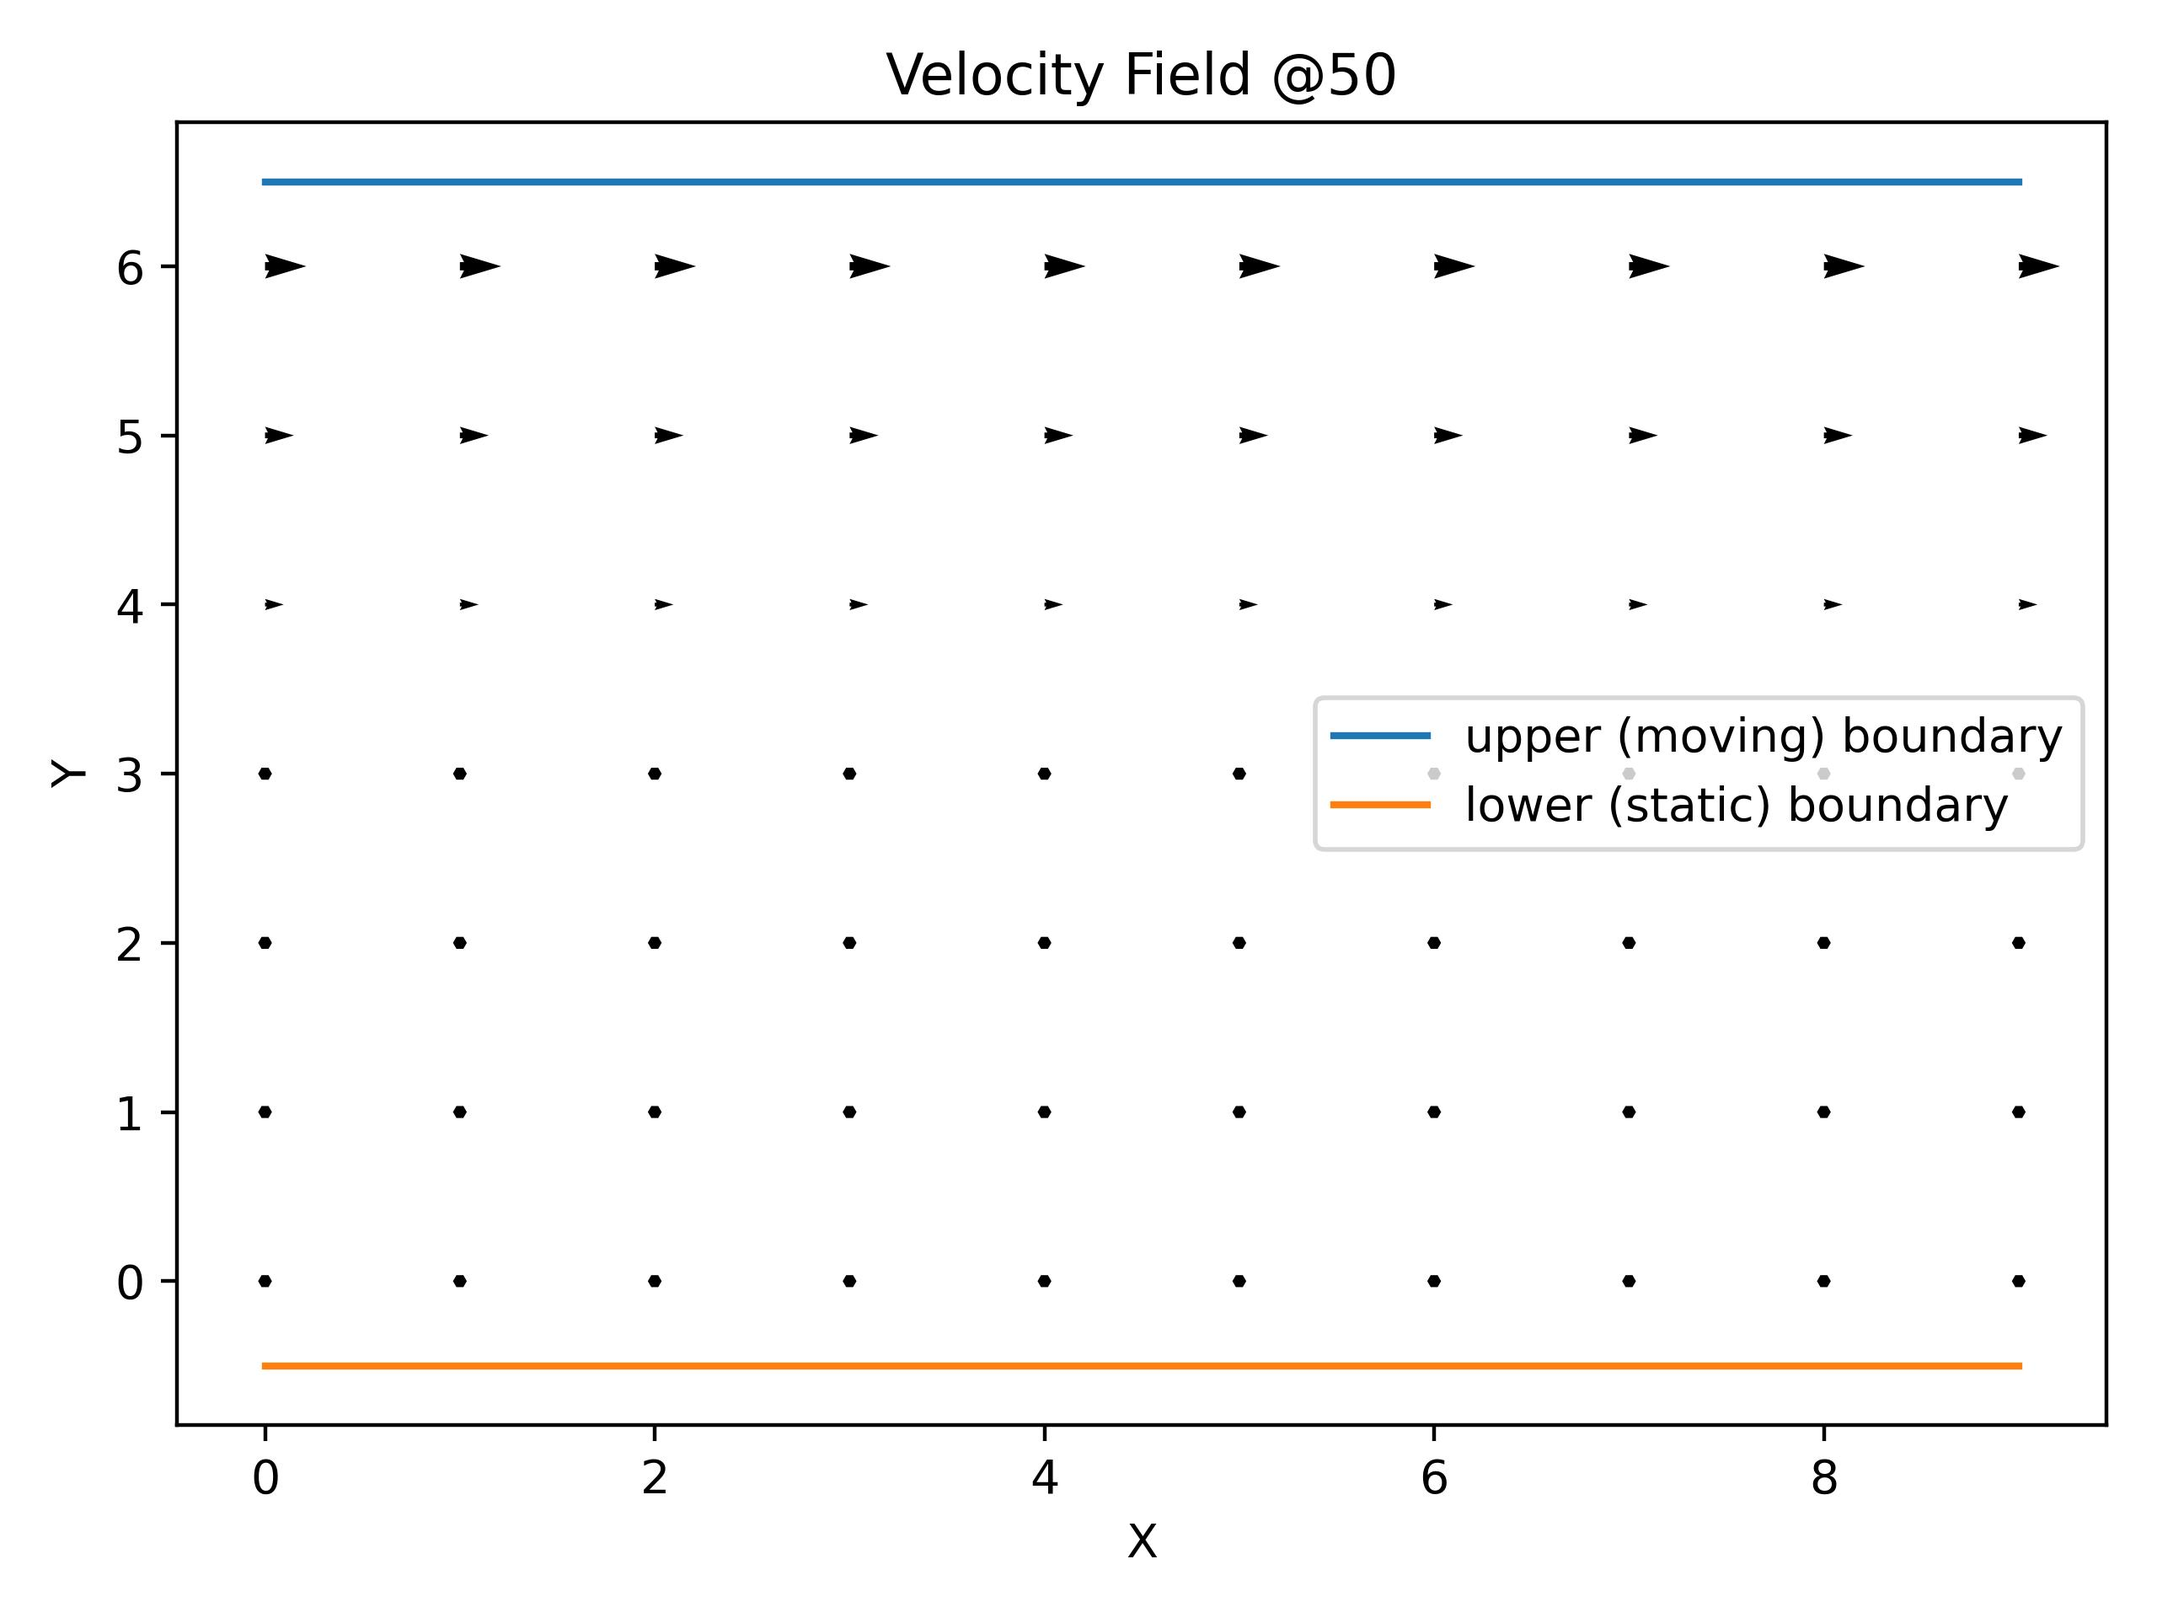
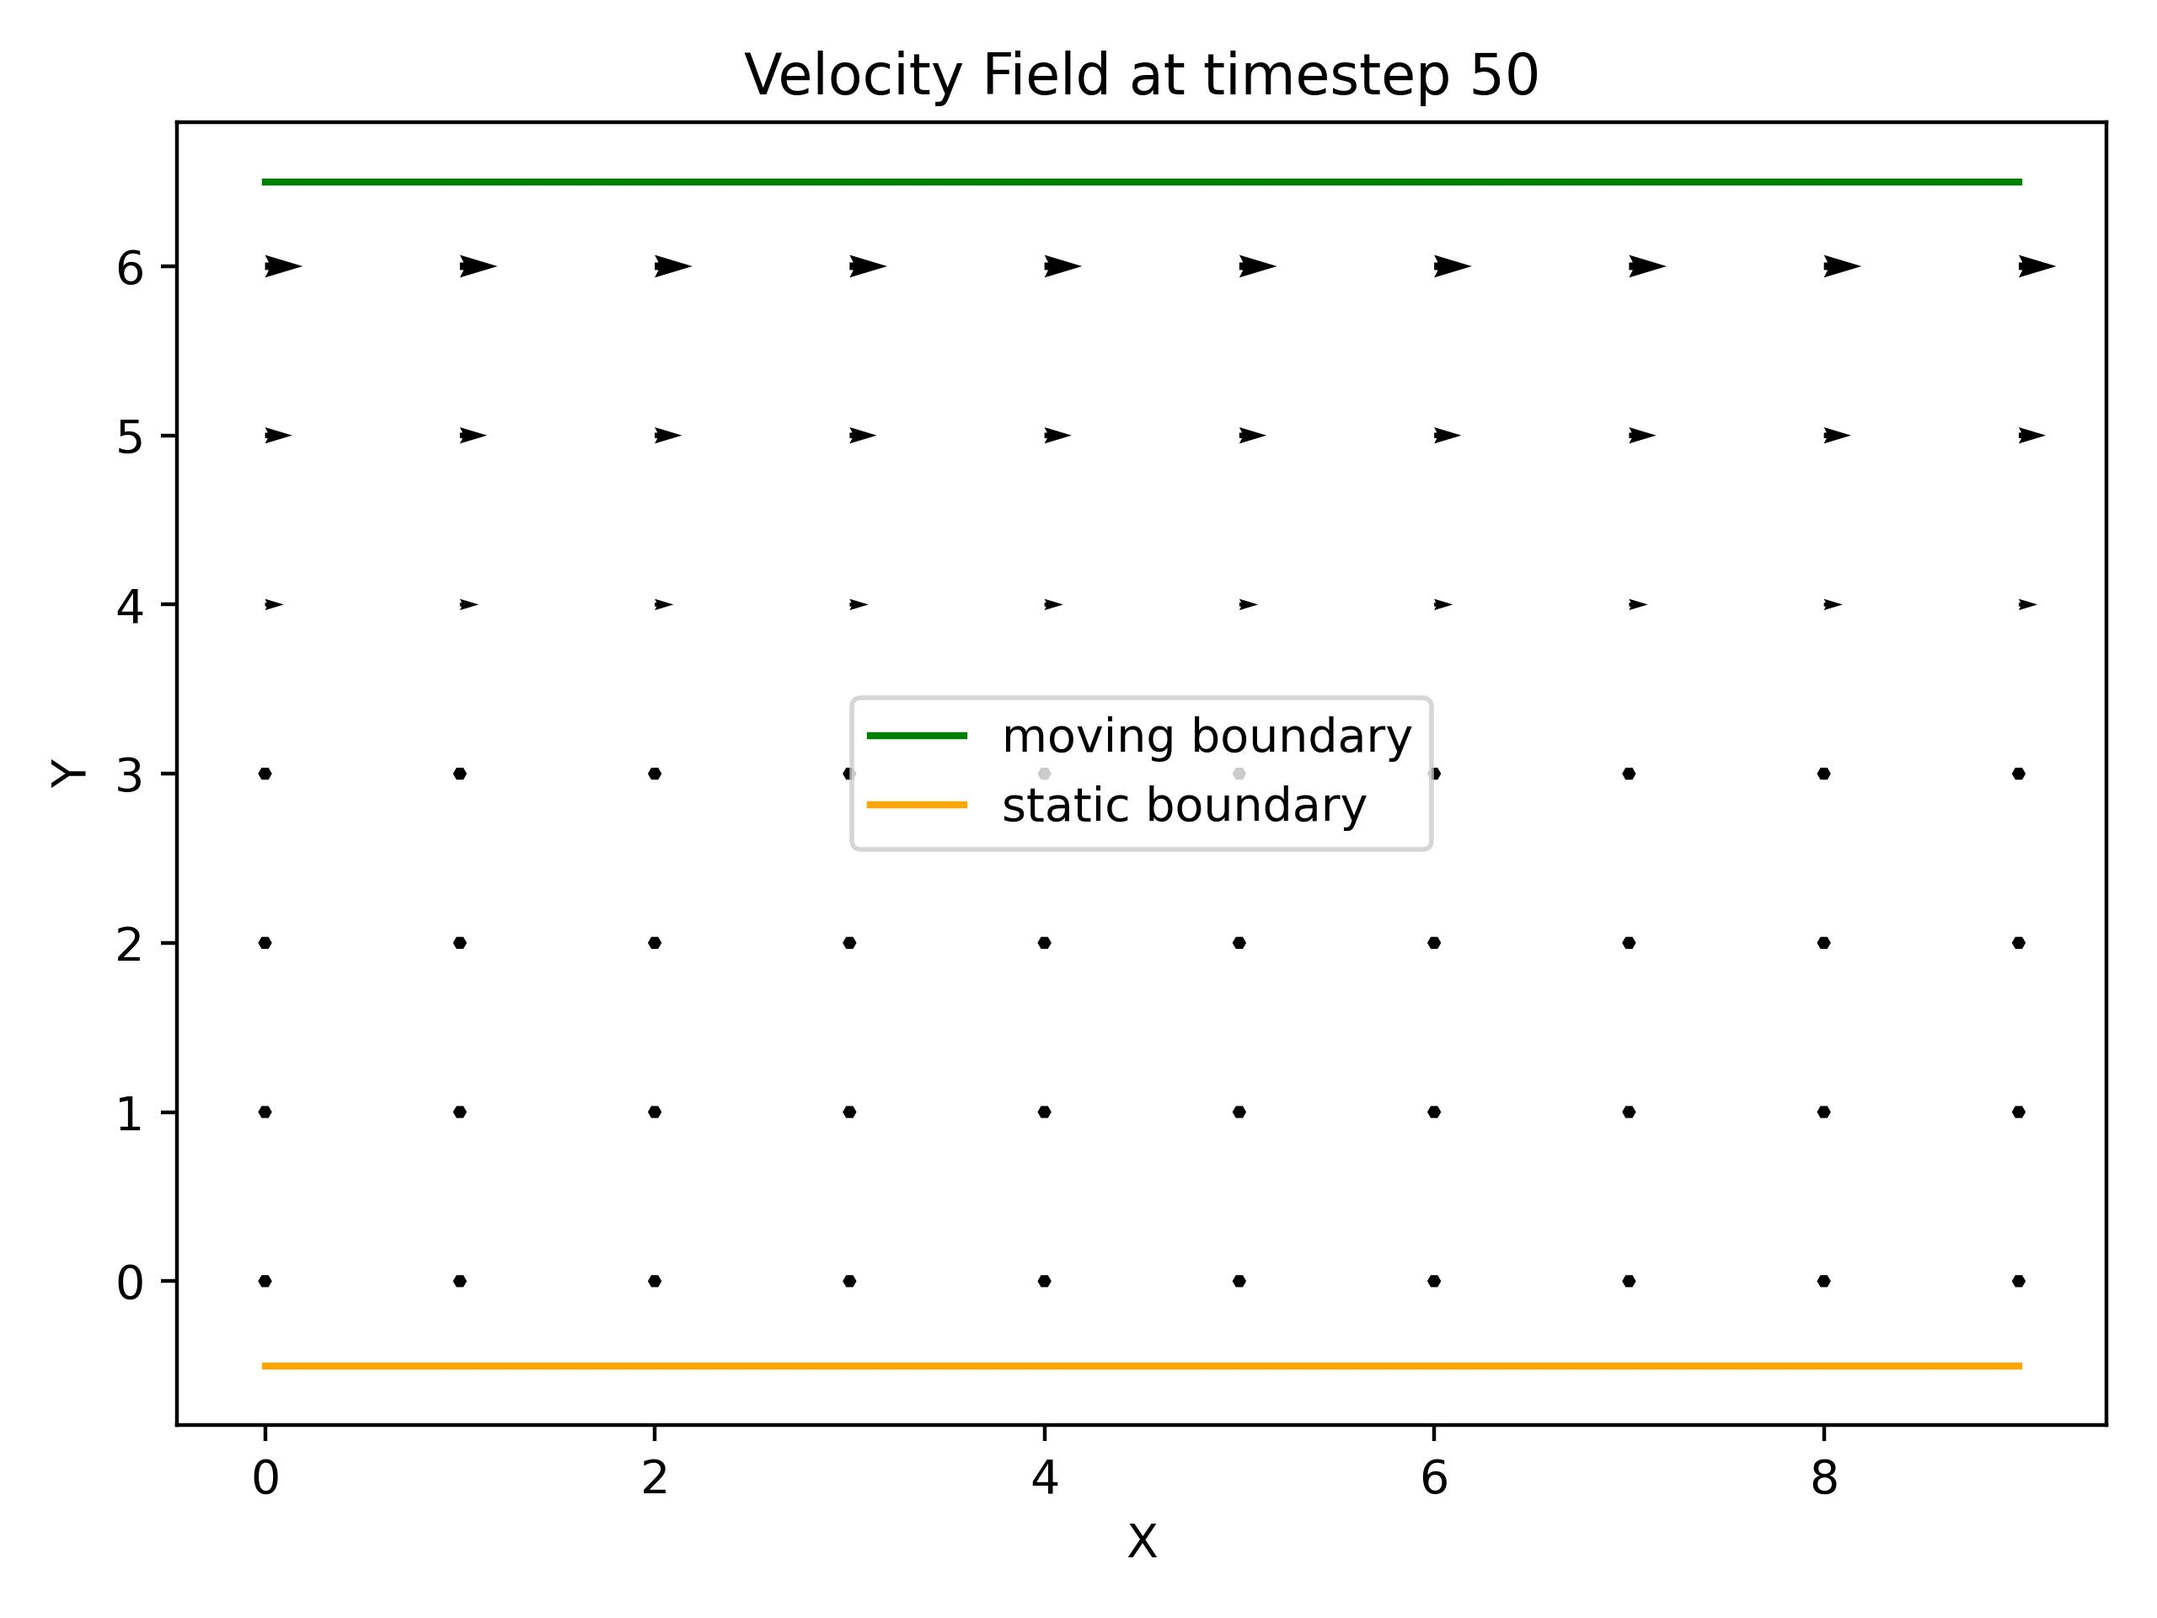
change graphs

Changed region(s): [[0.375, 0.4375, 0.9688, 0.5312], [0.125, 0.0938, 0.9375, 0.125], [0.3438, 0.0312, 0.7188, 0.0625]]

diff --git a/report/chapters/results.tex b/report/chapters/results.tex
@@ -5,9 +5,9 @@
 The Shear Wave Decay is a common concept in computational physics to measure the kinematic viscosity of a fluid.
 It is set up by creating an initial sinusoidal velocity profile and measuring the decay rate.
 The field is set up with a periodic boundary condition on each side, which results in e.g.\ particles moving out of the right to appear back on the left side.
-The default parameters for the Shear Wave Decay experiments are shown in \cref{tab:swd-parameters} and used if not stated otherwise.
+The default parameters of the Shear Wave Decay experiments are shown in \cref{tab:swd-parameters} and used if not stated otherwise.
 
-\begin{table}[ht]
+\begin{table}[H]
     \centering % used for centering table
     \begin{tabular}{c c}
 % centered columns (4 columns)
@@ -21,7 +21,7 @@ The default parameters for the Shear Wave Decay experiments are shown in \cref{t
         $t_{\max}$ & 1000  \\ [1ex] % [1ex] adds vertical space
         \hline %inserts single line
     \end{tabular}
-    \caption{Parameters for the Shear Wave Decay} % title of Table
+    \caption{Parameters of the Shear Wave Decay} % title of Table
     \label{tab:swd-parameters}
 \end{table}
 
@@ -41,7 +41,7 @@ This is due to the fact that the system tries to reach a state of equilibrium wh
 Therefore, a flow is created from the higher density area to the lower density area.
 This flow continues until the mass at the previous lower density area is so dense, that no further flow is created. %TODO better explaining why it overflows!
 It now reached a state similar to the beginning however the dense and low-dense areas swapped which is why the flow will have opposite directions in the next iteration.
-This process can be seen in \cref{fig:swd-stream-velocity}. % TODO fix formatting (text-image-text-image)
+This process can be seen in \cref{fig:swd-stream-velocity}.
 
 \begin{figure}[H]
     \begin{minipage}{0.33\textwidth}
@@ -157,23 +157,15 @@ In theory, this may even have an impact on the experiments, but omega was set to
 
 \section{Couette Flow}\label{sec:couette-flow}
 The \textit{Couette Flow} arises in a bounded field with two distinct boundaries located at the top and bottom.
-Notably, the lower boundary remains stationary, while the upper boundary is sliding in x-direction, as visualized in \cref{fig:cf-initial-condition}.
+Notably, the lower boundary remains stationary, while the upper boundary is sliding in x-direction.
 Periodic boundary conditions are enforced along the right and left sides.
-The initial condition, depicted in \cref{fig:cf-initial-condition} and can be mathematically expressed as follows:
+The initial condition can be mathematically expressed as follows:
 \begin{equation*}
     \begin{aligned}
         \rho(0) = 0 \\
         \mathbf{u}(0) = 0 \cdot
     \end{aligned}
 \end{equation*}
-
-\begin{figure}[H]
-    \begin{center}
-        \includegraphics[width=0.5\linewidth]{graphs/CouetteFlow/velocity_field_couette_flow_0}
-        \caption{Initial condition with a sliding boundary at the top, periodic boundary conditions to the side and a hard wall to the bottom.}
-        \label{fig:cf-initial-condition}
-    \end{center}
-\end{figure}
 
 Because of the friction of the boundaries, the fluid starts flow.
 More specifically, the fluid in the top starts to get momentum, because it is close to the upper boundary which is moving.
@@ -213,14 +205,14 @@ To reproduce this experiment, please use the parameters from \cref{tab:cf-parame
         $t_{\max}$  & 1000  \\ [1ex] % [1ex] adds vertical space
         \hline %inserts single line
     \end{tabular}
-    \caption{Parameters for the Couette Flow} % title of Table
+    \caption{Parameters of the Couette Flow} % title of Table
     \label{tab:cf-parameters}
 \end{table}
 
 
 \section{Poiseuille Flow}
 The \textit{Poiseuille Flow} can be described as a pressure pipe.
-There are stationary boundaries at the top and bottom and a periodic boundary condition to the sides, as shown in %TODO .
+There are stationary boundaries at the top and bottom and a periodic boundary condition to the sides, as seen in \cref{fig:pf-velocity-field}.
 In the beginning all velocity is set to 0 as defined by the initial condition
 \begin{equation*}
     \begin{aligned}
@@ -234,17 +226,20 @@ The resulting velocity field is shown in \cref{fig:pf-velocity-field}.
 \begin{figure}[H]
     \begin{center}
         \includegraphics[width=0.5\linewidth]{graphs/PoiseuilleFlow/velocity_field_999}
-        \caption{The steady state of the Poiseuille Flow.}
+        \caption{The steady state of the Poiseuille Flow. This graph shows an 8x8 field to increase readability.}
         \label{fig:pf-velocity-field}
     \end{center}
 \end{figure}
 
 \begin{figure}[H]
-    \begin{minipage}{0.5\textwidth}
+    \begin{minipage}{0.33\textwidth}
         \includegraphics[width=\linewidth]{graphs/PoiseuilleFlow/velocity_at_columns_for_step_10}
     \end{minipage}% don't remove this comment - uncomments a new line
-    \begin{minipage}{0.5\textwidth}
+    \begin{minipage}{0.33\textwidth}
         \includegraphics[width=\linewidth]{graphs/PoiseuilleFlow/velocity_at_columns_for_step_999}
+    \end{minipage}% don't remove this comment - uncomments a new line
+    \begin{minipage}{0.33\textwidth}
+        \includegraphics[width=\linewidth]{graphs/PoiseuilleFlow/velocity_for_step_at_columns_analytical}
     \end{minipage}
     \caption{
         The velocity at different cross-sections of the pipe through the simulation.
@@ -255,8 +250,11 @@ The resulting velocity field is shown in \cref{fig:pf-velocity-field}.
 The velocity field inside the pipe changes as shown in \cref{fig:pf-velocity-areas}.
 It can be clearly seen, that a \textit{wave} of pressure flows through the pipe.
 While in the beginning this leads to very different velocities in the pipe, this difference gets smaller over time.
-After 1000 timesteps, the equilibrium state is almost reached, but the final state is already clear.
-The lines to the right would completely overlap and show no difference anymore, which means, that the velocity is the same in the whole pipe.
+After 1000 timesteps, the equilibrium state is almost reached in the beginning of the pipe.
+The lines to the right would completely overlap and show no difference anymore, which means, that the velocity and will not change any further.
+
+Throughout the pipe however, the equilibrium state is not yet reached and will need further time as shown in the right graph.
+It shows that the velocity in the middle of the pipe will still increase after 2000 steps before reaching its final state given by the analytical solution.
 \newline
 
 Looking at \cref{fig:pf-velocity-areas}, a final \textit{hill} shaping velocity emerges throughout the field.
@@ -275,13 +273,36 @@ The density in the center column at $\rho\left( x, \frac{L_y}{2} \right)$ is vis
 The figure shows that while the velocity is reaching an equal amount through the pipe, the density differs.
 The density depends on the pressure, which is slowly decreasing through the pipe, which is why the density has to decrease as well.
 Again the equilibrium state is almost reached after 1000 timesteps, but the linear decay of density through the pipe is already visible.
+\newline
+
+To reproduce this experiment, please use the parameters from \cref{tab:pf-parameters}.
+Use $L_x = 10$ and $L_y = 10$ to generate a more readable velocity field.
+
+\begin{table}[H]
+    \centering % used for centering table
+    \begin{tabular}{c c}
+% centered columns (4 columns)
+        \hline\hline %inserts double horizontal lines
+        Parameter    & Value \\ [0.5ex] % inserts table heading
+        \hline % inserts single horizontal line
+        $L_x$        & 100   \\
+        $L_y$        & 100   \\
+        $\omega$     & 1.0   \\
+        $\epsilon$   & 0.01  \\
+        pressure in  & 1.05  \\
+        pressure out & 1.0   \\
+        $t_{\max}$   & 2000  \\ [1ex] % [1ex] adds vertical space
+        \hline %inserts single line
+    \end{tabular}
+    \caption{Parameters of the Poiseulle Flow} % title of Table
+    \label{tab:pf-parameters}
+\end{table}
 
 
 \section{Sliding Lit}\label{sec:sliding-lit}
 A good analogy for the \textit{Sliding Lit} environment is a box with an infinite lit, constantly sliding to the right.
 This means, there are stationary boundaries to the left, right and bottom.
 The upper boundary is similar to the \cref{sec:couette-flow} and sliding in x-direction.
-The whole setup is visualized in \cref{fig:sl-initial-condition}.
 The experiment starts with a motionless field, described by the initial condition
 \begin{equation*}
     \begin{aligned}
@@ -289,14 +310,6 @@ The experiment starts with a motionless field, described by the initial conditio
         \mathbf{u}(0) &= 0 \cdot
     \end{aligned}
 \end{equation*}
-
-\begin{figure}[H]
-    \begin{center}
-        \includegraphics[width=0.5\linewidth]{graphs/SlidingLit/initial_condition}
-        \caption{Initial Condition of the Sliding Lit Experiment}
-        \label{fig:sl-initial-condition}
-    \end{center}
-\end{figure}
 
 \begin{figure}[H]
     \begin{minipage}{0.5\textwidth}

diff --git a/src/shared/plot.py b/src/shared/plot.py
@@ -153,7 +153,7 @@ def velocity_for_step_at_columns_analytical(
         column = velocity[0, col, :]
         plt.plot(y, column, label=f"step {step}")
 
-    plt.plot(y, analytical_solution, label=f"analytical solution")
+    plt.plot(y, analytical_solution / 8, label=f"analytical solution")
 
     plt.legend()
     plt.tight_layout()
@@ -188,7 +188,7 @@ def velocity_for_step_at_columns(states: States, columns: List[int], step: int,
 def density_at_column_x(states: States, col: int, steps: List[int], path: Optional[str] = None):
     fig = plt.figure(dpi=DPI)
     plt.title(f'Density in the Center Row at different timesteps')
-    plt.xlabel('Y')
+    plt.xlabel('X')
     plt.ylabel('Density')
 
     y = range(states[0].shape[2] - 2)
@@ -279,14 +279,51 @@ def velocity_field(states: States, step: int, scale: Optional[float] = None, pat
         save_fig(fig, path, f"velocity_field_{step}")
 
 
-def stream_field_raw(states: np.ndarray, step: int, path: Optional[str] = None):
+def velocity_field_poiseulle_flow(states: States, step: int, scale: Optional[float] = None, path: Optional[str] = None):
+    fig = plt.figure(dpi=DPI)
+    plt.title(f'Velocity Field at timestep {step}')
+    plt.xlabel('X')
+    plt.ylabel('Y')
+
+    # plot velocities
+    data = np.swapaxes(boltzmann.velocity(states[step]), 1, 2)[:, 1:-1, 1:-1]
+    plt.quiver(data[0], data[1], angles='xy', scale_units='xy', scale=scale)
+
+    # plot boundaries exactly inbetween artificial boundary and shown points
+    y = range(data.shape[1])
+    upper_boundary = np.ones(data.shape[1]) * data.shape[2] - 0.5
+    lower_boundary = np.ones(data.shape[1]) * -0.5
+    plt.plot(y, upper_boundary, label="static boundary", color='orange')
+    plt.plot(y, lower_boundary, color='orange')
+
+    plt.legend()
+    plt.tight_layout()
+    if path is None:
+        plt.show()
+    else:
+        save_fig(fig, path, f"velocity_field_{step}")
+
+
+def stream_field_sliding_lit(state: np.ndarray, step: int, path: Optional[str] = None):
     fig = plt.figure(dpi=DPI)
     plt.title(f'Stream Field @{step}')
     plt.xlabel('X')
     plt.ylabel('Y')
-    x, y = np.meshgrid(np.arange(states.shape[1]), np.arange(states.shape[2]))
-    u, v = np.swapaxes(boltzmann.velocity(states), 1, 2)
+
+    # plot streams
+    x, y = np.meshgrid(np.arange(state.shape[1]), np.arange(state.shape[2]))
+    u, v = np.swapaxes(boltzmann.velocity(state), 1, 2)
     plt.streamplot(x, y, u, v)
+
+    # plot boundaries
+    y = range(state.shape[1])
+    upper_boundary = np.ones(state.shape[1]) * state.shape[2] - 0.5
+    plt.axvline(x=-0.5, color='orange', label='static boundary')
+    plt.axvline(x=state.shape[2] - 0.5, color='orange')
+    lower_boundary = np.ones(state.shape[1]) * -0.5
+    plt.plot(y, lower_boundary, color='orange')
+    plt.plot(y, upper_boundary, label="sliding lit", color='green')
+
     if path is None:
         plt.show()
     else:
@@ -309,7 +346,7 @@ def stream_field(states: States, step: int, path: Optional[str] = None):
 
 def velocity_field_couette_flow(states: States, step: int, scale: float = 1.0, path: Optional[str] = None):
     fig = plt.figure(dpi=DPI)
-    plt.title(f'Velocity Field @{step}')
+    plt.title(f'Velocity Field at timestep {step}')
     plt.xlabel('X')
     plt.ylabel('Y')
 
@@ -322,8 +359,8 @@ def velocity_field_couette_flow(states: States, step: int, scale: float = 1.0, p
     y = range(states[step].shape[1])
     upper_boundary = np.ones(states[step].shape[1]) * states[step].shape[2] - 3 - 0.5
     lower_boundary = np.ones(states[step].shape[1]) * -0.5
-    plt.plot(y, upper_boundary, label="upper (moving) boundary")
-    plt.plot(y, lower_boundary, label="lower (static) boundary")
+    plt.plot(y, upper_boundary, label="moving boundary", color="green")
+    plt.plot(y, lower_boundary, label="static boundary", color="orange")
 
     plt.legend()
     plt.tight_layout()

diff --git a/report/hpc-fluid-mechanics.tex b/report/hpc-fluid-mechanics.tex
@@ -27,7 +27,7 @@
 % Author
 % \author{\textsc{First-name Last-name}\footnote{email address}}
 \author{\textsc{Jonas Bürgel} \\ \vspace{3mm}\text{5500163}  \\
-\vspace{3mm}\text{jonas.buergel@mail.de}}
+\vspace{3mm}\text{buergelj@tf.uni-freiburg.de}}
 
 
 \begin{document}
